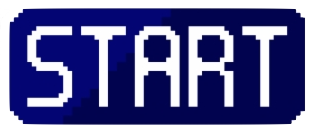
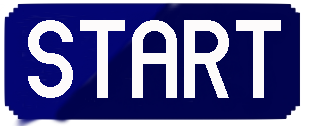
Idiom Option

diff --git a/core/src/com/mygdx/ttrispo/pantalla/PantallaInicio.java b/core/src/com/mygdx/ttrispo/pantalla/PantallaInicio.java
@@ -18,7 +18,7 @@ package com.mygdx.ttrispo.pantalla;
 
 public class PantallaInicio extends PantallaBase{
     private Skin skin;
-    private ImageButton start, settings;
+    private ImageButton start, settings, idioma;
     private Texture fondoInicio;
     private Sprite paraGirar1, paraGirar2;
     private long tiempoInicial;
@@ -27,6 +27,7 @@ public class PantallaInicio extends PantallaBase{
     private Image tetris;
     private Music musicaInicio;
     private Sound sonidoOptions, sonidoJugar;
+
 
     public PantallaInicio (final MyGdxGame game) {
         super(game);
@@ -45,22 +46,42 @@ public class PantallaInicio extends PantallaBase{
 
         //Boton start con imagen
         start = new ImageButton(skin, "start");
-        start.getStyle().imageUp = new TextureRegionDrawable(new TextureRegion(GestorRecursos.get("B-start.png")));
-        start.getStyle().imageDown = new TextureRegionDrawable(new TextureRegion(GestorRecursos.get("B-start.png")));
+        if (game.isEstadoIdioma()) {
+            start.getStyle().imageUp = new TextureRegionDrawable(new TextureRegion(GestorRecursos.get("B-start.png")));
+            start.getStyle().imageDown = new TextureRegionDrawable(new TextureRegion(GestorRecursos.get("B-start.png")));
+        } else {
+            start.getStyle().imageUp = new TextureRegionDrawable(new TextureRegion(GestorRecursos.get("empezar.png")));
+            start.getStyle().imageDown = new TextureRegionDrawable(new TextureRegion(GestorRecursos.get("empezar.png")));
+        }
         start.setSize(start.getStyle().imageUp.getMinWidth(), start.getStyle().imageUp.getMinHeight());
         start.setPosition((Gdx.graphics.getWidth() - start.getStyle().imageUp.getMinWidth()) / 2.0f, 0.3f * Gdx.graphics.getHeight());
         super.stage.addActor(start);
-
         //Boton ajustes con imagen
         settings = new ImageButton(skin, "ajustes");
-        settings.getStyle().imageUp = new TextureRegionDrawable(new TextureRegion(GestorRecursos.get("B-ajustes.png")));
-        settings.getStyle().imageDown = new TextureRegionDrawable(new TextureRegion(GestorRecursos.get("B-ajustes.png")));
+        if (game.isEstadoIdioma()) {
+            settings.getStyle().imageUp = new TextureRegionDrawable(new TextureRegion(GestorRecursos.get("B-ajustes.png")));
+            settings.getStyle().imageDown = new TextureRegionDrawable(new TextureRegion(GestorRecursos.get("B-ajustes.png")));
+
+        } else {
+            settings.getStyle().imageUp = new TextureRegionDrawable(new TextureRegion(GestorRecursos.get("ajustes.png")));
+            settings.getStyle().imageDown = new TextureRegionDrawable(new TextureRegion(GestorRecursos.get("ajustes.png")));
+        }
         settings.setSize(settings.getStyle().imageUp.getMinWidth()/1.5f, settings.getStyle().imageUp.getMinHeight()/1.5f);
         settings.setPosition((Gdx.graphics.getWidth() - settings.getStyle().imageUp.getMinWidth()/1.5f)/ 2.0f,
                 0.2f * Gdx.graphics.getHeight());
         super.stage.addActor(settings);
 
-        //Eventos de ambos
+
+        //Boton idioma con imagen
+        idioma = new ImageButton(skin, "idioma");
+        idioma.getStyle().imageUp = new TextureRegionDrawable(new TextureRegion(GestorRecursos.get("idioma.png")));
+        idioma.getStyle().imageDown = new TextureRegionDrawable(new TextureRegion(GestorRecursos.get("idioma.png")));
+        idioma.setSize(settings.getStyle().imageUp.getMinWidth() / 1.5f, idioma.getStyle().imageUp.getMinHeight() / 1.5f);
+        idioma.setPosition((Gdx.graphics.getWidth() - settings.getStyle().imageUp.getMinWidth() / 1.5f) / 2.0f,
+                0.1f * Gdx.graphics.getHeight());
+        super.stage.addActor(idioma);
+
+        //Eventos de los botones
         start.addListener(new ClickListener(){
             @Override
             public void clicked(InputEvent event, float x, float y) {
@@ -70,12 +91,20 @@ public class PantallaInicio extends PantallaBase{
                 musicaInicio.stop();
             }
         });
+        idioma.addListener(new ClickListener() {
+            @Override
+            public void clicked(InputEvent event, float x, float y) {
+                boolean estadoIdiomaAux = !game.isEstadoIdioma();
+                game.setEstadoIdioma(estadoIdiomaAux);
+                game.setScreen(new PantallaInicio(game));
+
+            }
+        });
 
         settings.addListener(new ClickListener(){
             @Override
             public void clicked(InputEvent event, float x, float y) {
                 sonidoOptions.play(0.4f);
-
                 musicaInicio.stop();
                 game.setScreen(new PantallaAjustes(game));
             }

diff --git a/core/src/com/mygdx/ttrispo/pantalla/PantallaAjustes.java b/core/src/com/mygdx/ttrispo/pantalla/PantallaAjustes.java
@@ -46,7 +46,14 @@ public class PantallaAjustes extends PantallaBase {
         super(game);
         skin = new Skin(Gdx.files.internal("skins/default/skin/uiskin.json"));
         fondoAjustes = GestorRecursos.get("fondoInicio.jpg");
-        fraseAjustes = new TextureRegion(GestorRecursos.get("colorPiezas.png"));
+        if (game.isEstadoIdioma()) {
+            fraseAjustes = new TextureRegion(GestorRecursos.get("piecesColor.png"));
+
+        } else {
+            fraseAjustes = new TextureRegion(GestorRecursos.get("colorPiezas.png"));
+
+
+        }
         coloresPersonalizados = false;
         cambio = false;
         tiempoInicial = 0;
@@ -70,7 +77,9 @@ public class PantallaAjustes extends PantallaBase {
         BPiezaJ.getLabel().setFontScale(3);
 
         Home = new ImageButton(skin, "atras");
+
         Play = new ImageButton(skin, "start");
+
 
         t=1; s=2; z=3; i=4; o=5; l=6; j=7;
 
@@ -117,8 +126,14 @@ public class PantallaAjustes extends PantallaBase {
         table.add();
         //botón para jugar
         table.add(Play).size(300,100).center();;
-        Play.getStyle().imageUp = new TextureRegionDrawable(new TextureRegion(GestorRecursos.get("B-start.png")));
-        Play.getStyle().imageDown = new TextureRegionDrawable(new TextureRegion(GestorRecursos.get("B-start.png")));
+        if (game.isEstadoIdioma()) {
+            Play.getStyle().imageUp = new TextureRegionDrawable(new TextureRegion(GestorRecursos.get("B-start.png")));
+            Play.getStyle().imageDown = new TextureRegionDrawable(new TextureRegion(GestorRecursos.get("B-start.png")));
+        } else {
+            Play.getStyle().imageUp = new TextureRegionDrawable(new TextureRegion(GestorRecursos.get("empezar.png")));
+            Play.getStyle().imageDown = new TextureRegionDrawable(new TextureRegion(GestorRecursos.get("empezar.png")));
+        }
+
         //boton de ir atrás
         table.add(Home).size(100,100).center();
         Home.getStyle().imageUp = new TextureRegionDrawable(new TextureRegion(GestorRecursos.get("B-atras.png")));

diff --git a/core/src/com/mygdx/ttrispo/MyGdxGame.java b/core/src/com/mygdx/ttrispo/MyGdxGame.java
@@ -17,6 +17,7 @@ public class MyGdxGame extends Game implements ApplicationListener {
     public static float VARIABLE_GLOBAL_PROGRESO = 0;
 
     public PantallaInicio pantallaInicio;
+    private boolean estadoIdioma = false;
     public volatile PantallaGameOver pantallaGameOver;
     public PantallaAjustes pantallaAjustes;
     public static FirebaseHelper firebaseHelper;
@@ -45,8 +46,8 @@ public class MyGdxGame extends Game implements ApplicationListener {
         Gdx.app.setLogLevel(Application.LOG_DEBUG);
         GestorRecursos.cargarImagenes();
         myGdxGame = this;
-        ratioPixelesHeight = (float) Gdx.graphics.getHeight()/GestorRecursos.get("background.jpeg").getHeight();
-        ratioPixelesWidth = (float) Gdx.graphics.getWidth()/GestorRecursos.get("background.jpeg").getWidth();    //pixeles = pantallaMovil/background
+        ratioPixelesHeight = (float) Gdx.graphics.getHeight() / GestorRecursos.get("background.png").getHeight();
+        ratioPixelesWidth = (float) Gdx.graphics.getWidth() / GestorRecursos.get("background.png").getWidth();    //pixeles = pantallaMovil/background
         pantallaInicio = new PantallaInicio(myGdxGame);
         pantallaAjustes = new PantallaAjustes(myGdxGame);
         firebaseHelper = new FirebaseHelper();
@@ -65,6 +66,14 @@ public class MyGdxGame extends Game implements ApplicationListener {
                 });
             }
         }).start();
+    }
+
+    public boolean isEstadoIdioma() {
+        return estadoIdioma;
+    }
+
+    public void setEstadoIdioma(boolean estadoIdioma) {
+        this.estadoIdioma = estadoIdioma;
     }
 
     @Override

diff --git a/core/src/com/mygdx/ttrispo/Gestores/GestorRecursos.java b/core/src/com/mygdx/ttrispo/Gestores/GestorRecursos.java
@@ -16,8 +16,10 @@ public  class GestorRecursos {
     private static int contador = 0;
 
     public static void cargarImagenes() {
+        //INICIO
         manager.load("fondoInicio.jpg", Texture.class);
         manager.load("tetris.png", Texture.class);
+        //INGLES
         manager.load("B-start.png", Texture.class);
         manager.load("B-ajustes.png", Texture.class);
         manager.load("colorPiezas.png", Texture.class);
@@ -25,6 +27,14 @@ public  class GestorRecursos {
         manager.load("B-retry.png", Texture.class);
         manager.load("B-home.png", Texture.class);
         manager.load("colorPiezas.png", Texture.class);
+        manager.load("idioma.png", Texture.class);
+        manager.load("ajustes.png", Texture.class);
+        manager.load("empezar.png", Texture.class);
+        manager.load("backgroundEs.png", Texture.class);
+        manager.load("piecesColor.png", Texture.class);
+
+
+
 
         manager.load("B-dere.jpg", Texture.class);
         manager.load("BP-dere.jpeg", Texture.class);
@@ -49,7 +59,7 @@ public  class GestorRecursos {
         manager.load("LCompleta.png", Texture.class);
         manager.load("ICompleta.png", Texture.class);
         manager.load("OCompleta.png", Texture.class);
-        manager.load("background.jpeg", Texture.class);
+        manager.load("background.png", Texture.class);
         manager.load("GameOver.jpeg", Texture.class);
 
         //musica

diff --git a/core/src/com/mygdx/ttrispo/pantalla/Partida.java b/core/src/com/mygdx/ttrispo/pantalla/Partida.java
@@ -54,7 +54,11 @@ public class Partida extends PantallaBase {
         gestorPiezas2ndPieza = new GestorPiezas(this);
 
         bb = new BotonBase(stage, gestorEstado, gestorEstado2ndPieza);
-        fondoPartida = GestorRecursos.get("background.jpeg");
+        if (game.isEstadoIdioma()) {
+            fondoPartida = GestorRecursos.get("background.png");
+        } else {
+            fondoPartida = GestorRecursos.get("backgroundEs.png");
+        }
 
         tablero = new Tablero(this);
         tablero.setPosition(posicionX, posicionY);
